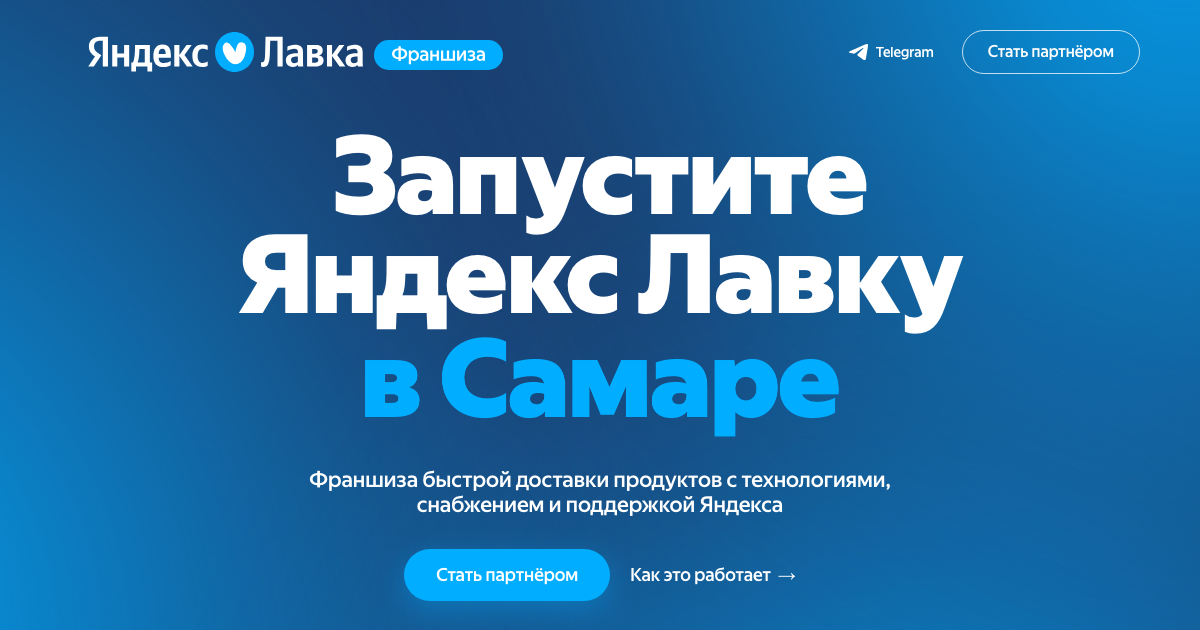
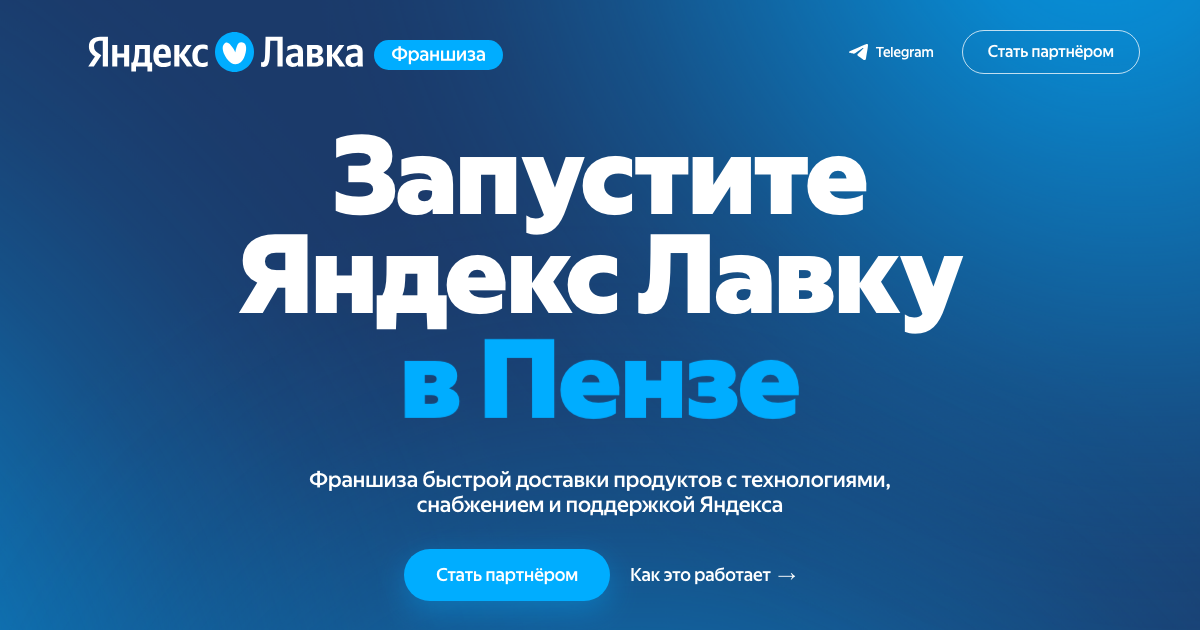
Адаптив: в барабане хиро Пенза вместо Самары, из форматов убран Тольятти, og-превью обновлено

Changed region(s): [[0.0, 0.0, 0.7092, 1.0], [0.6783, 0.6635, 1.0, 1.0]]

diff --git a/adaptive/index.html b/adaptive/index.html
@@ -206,7 +206,7 @@
           </article>
           <article class="format-card reveal" style="--delay:.16s" data-format-card data-tab="Крупные города">
             <div class="chips"><span class="chip chip--navy">Новый город</span><span class="chip">Крупные города</span></div>
-            <p class="cities">Ижевск, Оренбург, Ульяновск, Тольятти, Пенза, Киров</p>
+            <p class="cities">Ижевск, Оренбург, Ульяновск, Пенза, Киров</p>
             <dl><div><dt>Инвестиции</dt><dd><b>75–150</b> млн&nbsp;₽</dd></div><div><dt>Окупаемость</dt><dd>от&nbsp;3&nbsp;лет</dd></div><div><dt>Паушальный взнос</dt><dd>750&nbsp;тыс.&nbsp;₽ <small>/ даркстор</small> <button class="info" type="button" aria-label="Подробнее о паушальном взносе">i<span>Без&nbsp;НДС</span></button></dd></div><div><dt>Роялти</dt><dd>0–7% <button class="info" type="button" aria-label="Подробнее о роялти">i<span>Зависит от&nbsp;оборота и&nbsp;условий конкретного города</span></button></dd></div></dl>
             <p class="format-note">Запуск сервиса с&nbsp;нуля в&nbsp;крупном городе</p>
           </article>

diff --git a/adaptive/app.js b/adaptive/app.js
@@ -52,7 +52,7 @@
 
   const cityRot = document.querySelector('[data-city-rot]');
   if (cityRot) {
-    const cities = ['в\u00A0Казани', 'в\u00A0Самаре', 'в\u00A0Уфе', 'в\u00A0Тюмени', 'в\u00A0Ижевске', 'в\u00A0своём городе'];
+    const cities = ['в\u00A0Казани', 'в\u00A0Пензе', 'в\u00A0Уфе', 'в\u00A0Тюмени', 'в\u00A0Ижевске', 'в\u00A0своём городе'];
     const home = cities.length - 1;
     const hold = 2400;
     const holdHome = 4400;
